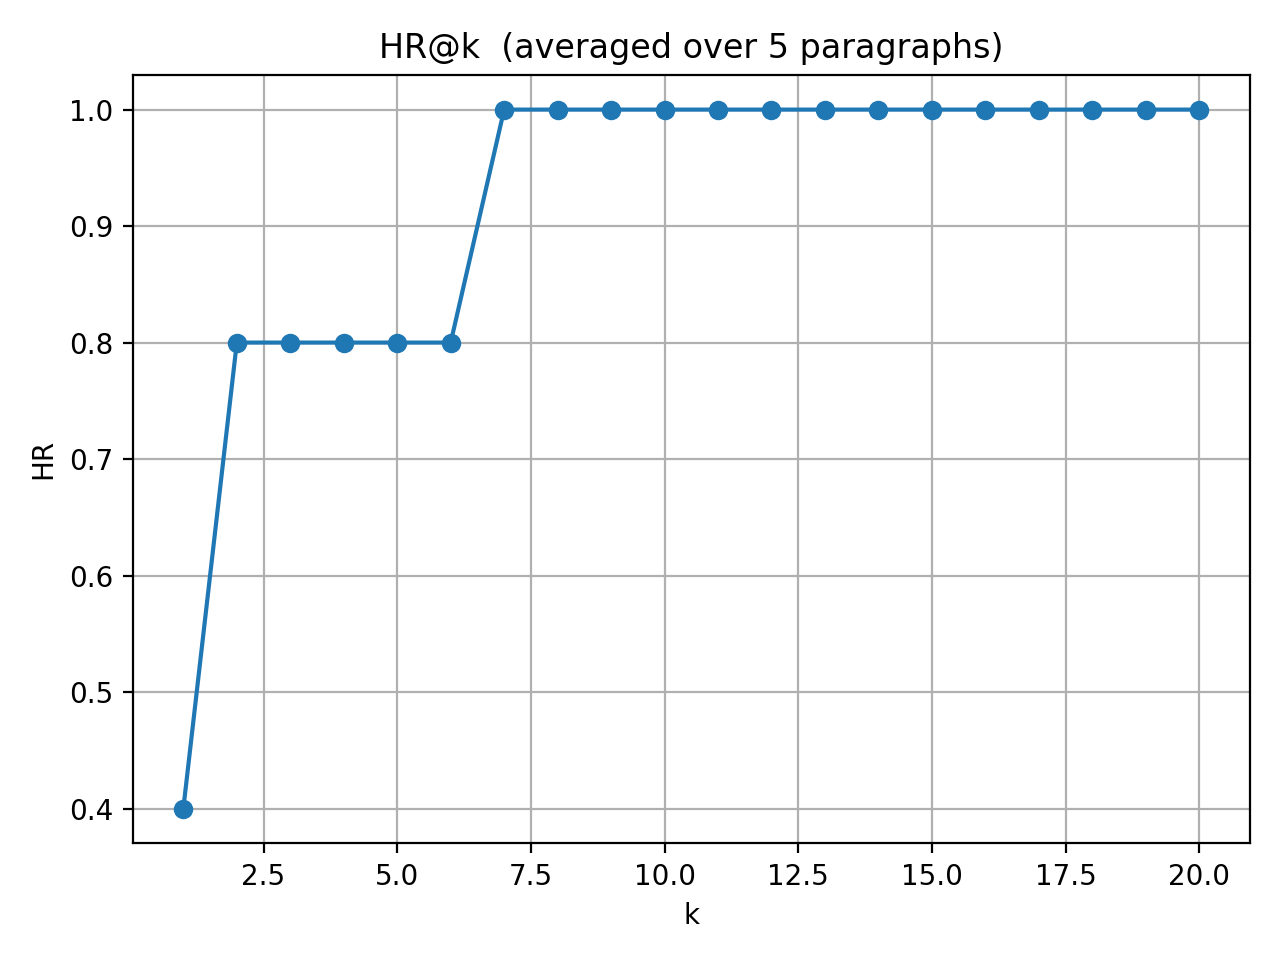
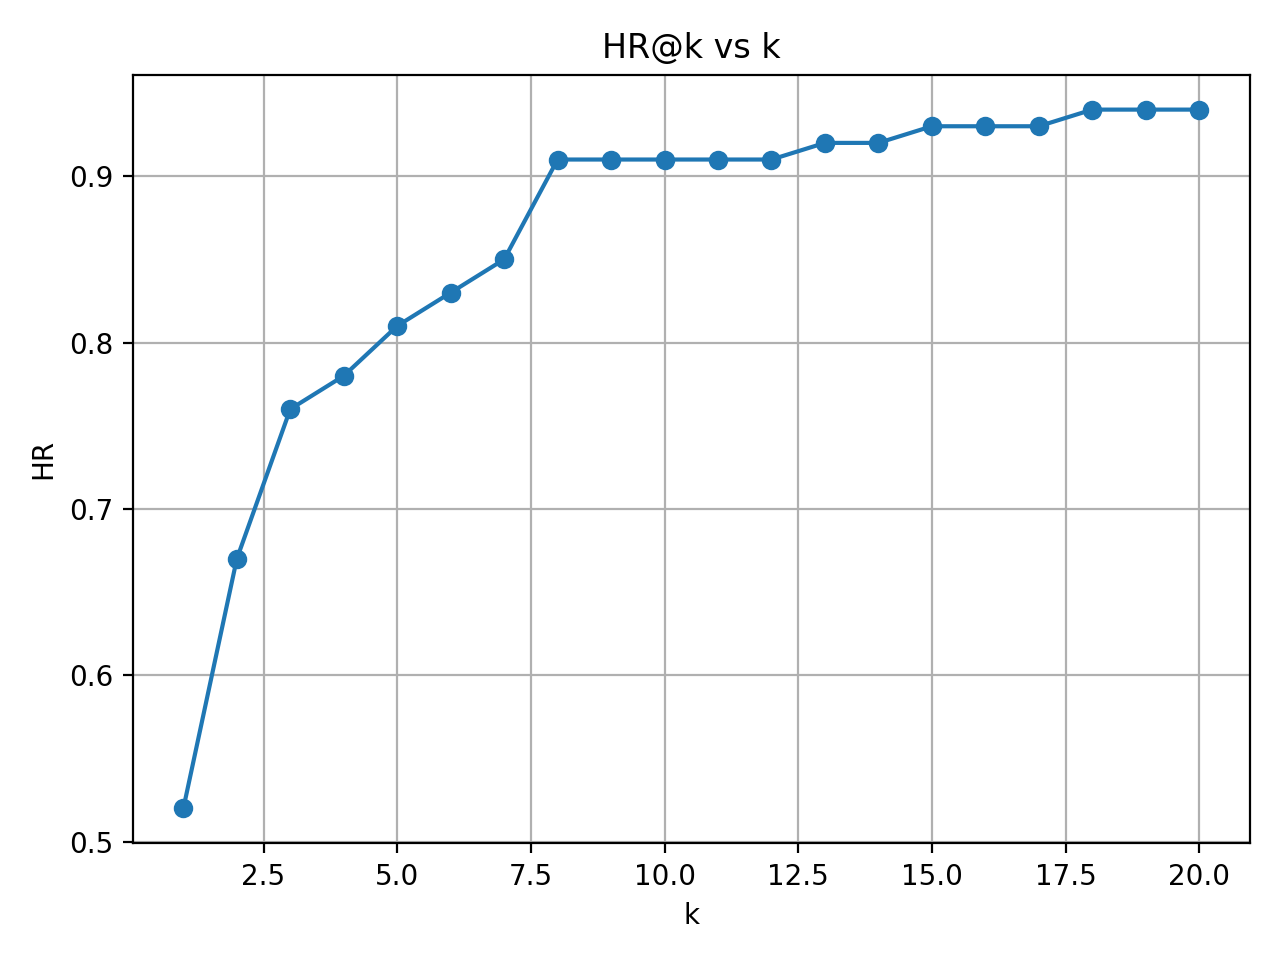
Added new rrf

diff --git a/main/llm/eval_rrf.py b/main/llm/eval_rrf.py
@@ -1,4 +1,4 @@
-# --- eval_ctx_rrf.py ---------------------------------------------------------
+# This is rrf reranking but no llm 
 from __future__ import annotations
 import os, json
 from pathlib import Path
@@ -21,9 +21,7 @@ from recall import (
     embed,
 )
 
-# --------------------------------------------------------------------------- #
-# Configuration
-# --------------------------------------------------------------------------- #
+# config
 TESTSET_PATH  = Path(os.getenv("TESTSET_PATH",
                      "/home/abhi/Desktop/Manami/recommender-system/datasets/testset_2020_references.jsonl"))
 MAX_CASES     = int(os.getenv("MAX_CASES", 100))
@@ -32,7 +30,7 @@ TOPK_LIST     = tuple(range(1, 21))
 TOKENIZER     = AutoTokenizer.from_pretrained(
                     "meta-llama/Meta-Llama-3.1-8B-Instruct", use_fast=True)
 
-# --------------------------------------------------------------------------- #
+# cosine similarity 
 def cosine_matrix(a: np.ndarray, b: np.ndarray) -> np.ndarray:
     return a @ b.T
 
@@ -105,7 +103,7 @@ def evaluate_case(
 
     return out
 
-# --------------------------------------------------------------------------- #
+# main
 def main() -> None:
     if not TESTSET_PATH.exists():
         raise FileNotFoundError(f"Testset not found at {TESTSET_PATH}")
@@ -123,10 +121,8 @@ def main() -> None:
         )
 
     metric_df = pd.DataFrame(rows)
-    out_csv   = Path(__file__).parent / "csv" / "metrics_rrf.csv"
-    out_csv.parent.mkdir(exist_ok=True)
-    metric_df.to_csv(out_csv, index=False)
-    print(f"Saved per-paragraph metrics → {out_csv}")
+    out_path = Path(__file__).parent / "csv" / "metrics_rrf.csv"
+    metric_df.to_csv(out_path, index=False)
 
     avg = metric_df.mean(numeric_only=True).round(4)
     print("\nAverage metrics (pure RRF):\n", avg)
@@ -136,7 +132,7 @@ def main() -> None:
         y = metric_df[[f"{prefix}@{k}" for k in ks]].mean().values
         plt.figure()
         plt.plot(ks, y, marker="o")
-        plt.title(f"{prefix}@k  (averaged over {len(metric_df)} paragraphs)")
+        plt.title(f"{prefix}@k vs k")
         plt.xlabel("k")
         plt.ylabel(prefix)
         plt.grid(True)
@@ -144,6 +140,5 @@ def main() -> None:
         plt.savefig(Path(__file__).parent / "eval" / f"{prefix.lower()}_rrf.png", dpi=200)
         plt.close()
 
-# --------------------------------------------------------------------------- #
 if __name__ == "__main__":
     main()

diff --git a/main/llm/eval_ctx_llm.py b/main/llm/eval_ctx_llm.py
@@ -24,7 +24,7 @@ import matplotlib.pyplot as plt
 
 # config
 TESTSET_PATH  = Path(os.getenv("TESTSET_PATH", "/home/abhi/Desktop/Manami/recommender-system/datasets/testset_2020_references.jsonl"))
-MAX_CASES     = int(os.getenv("MAX_CASES", 5)) # Number of test cases to evaluate
+MAX_CASES     = int(os.getenv("MAX_CASES", 100)) # Number of test cases to evaluate
 SIM_THRESHOLD = float(os.getenv("SIM_THRESHOLD", 0.95))
 TOPK_LIST     = (1, 2, 3, 4, 5, 6, 7, 8, 9, 10, 11, 12, 13, 14, 15, 16, 17, 18, 19, 20) # K-values for evaluation metrics
 
@@ -161,29 +161,24 @@ def main() -> None:
         )
 
     metric_df = pd.DataFrame(rows)
-    out_csv   = Path(__file__).parent / "csv" / "metrics_rrf_chunk.csv"
-    out_csv.parent.mkdir(exist_ok=True)
-    metric_df.to_csv(out_csv, index=False)
-    print(f"Saved per-paragraph metrics → {out_csv}")
+    out_path = Path(__file__).parent / "csv" / "metrics_rrf_llm.csv"
+    metric_df.to_csv(out_path, index=False)
 
-    # Average summary
     avg = metric_df.mean(numeric_only=True).round(4)
-    print("\nAverage metrics (RRF + LLM):\n", avg)
+    print("\nAverage metrics (pure RRF):\n", avg)
 
     ks = np.array(TOPK_LIST)
     for prefix in ["P", "HR", "R", "NDCG"]:
         y = metric_df[[f"{prefix}@{k}" for k in ks]].mean().values
         plt.figure()
         plt.plot(ks, y, marker="o")
-        plt.title(f"{prefix}@k  (averaged over {len(metric_df)} paragraphs)")
+        plt.title(f"{prefix}@k vs k")
         plt.xlabel("k")
         plt.ylabel(prefix)
         plt.grid(True)
         plt.tight_layout()
-        plt.savefig(Path(__file__).parent / "eval" / f"{prefix.lower()}_curve.png", dpi=200)
+        plt.savefig(Path(__file__).parent / "eval" / f"{prefix.lower()}_rrf_llm.png", dpi=200)
         plt.close()
-
-
 if __name__ == "__main__":
     main()
 

diff --git a/main/llm/eval_llm_hop.py b/main/llm/eval_llm_hop.py
@@ -135,12 +135,12 @@ def main() -> None:
             [str(pid) for pid in rec.get("references", [])],
             rec.get("year")
         )
-        m["method"] = "bm25_hop_rerank"   # tag this run
+        m["method"] = "metrics_rrf_hop"   # tag this run
         rows.append(m)
 
     # 4) build a DataFrame and dump to CSV
     metric_df = pd.DataFrame(rows)
-    out_csv   = Path(__file__).parent / "csv" / "metrics_bm25_hop_rerank.csv"
+    out_csv   = Path(__file__).parent / "csv" / "metrics_rrf_hop.csv"
     metric_df.to_csv(out_csv, index=False)
     print(f"\nSaved per-paragraph metrics to {out_csv}")
 
@@ -158,7 +158,7 @@ def main() -> None:
         plt.title(f"{pref}@k vs k  (avg over {len(metric_df)} paragraphs)")
         plt.xlabel("k (# recommended papers)");   plt.ylabel(pref)
         plt.grid(True); plt.tight_layout()
-        plt.savefig(save_dir / f"{pref.lower()}_hop.png", dpi=200)
+        plt.savefig(save_dir / f"{pref.lower()}_rrf_hop.png", dpi=200)
         plt.close()
 
     print("\nAverage metrics over "
